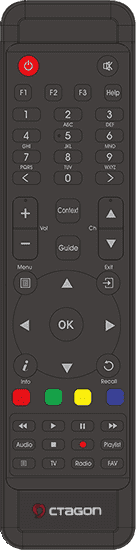
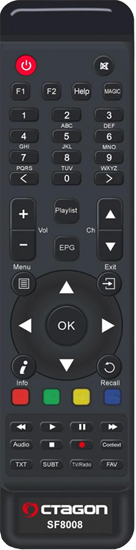
updated octagon remote

diff --git a/plugin/public/static/remotes/octagon.html b/plugin/public/static/remotes/octagon.html
@@ -1,52 +1,60 @@
 <img border='0' src='/images/remotes/octagon.png' usemap='#map' >
 <map name="map">
-    <area shape="circle" coords="28,66,12" title="Power" onclick="pressMenuRemote('116');">
-    <area shape="circle" coords="107,66,12" title="mute" onclick="pressMenuRemote('113');">
-    <area shape="circle" coords="23,93,10" title="f1" onclick="pressMenuRemote('59');">
-    <area shape="circle" coords="54,93,10" title="f2" onclick="pressMenuRemote('60');">
-    <area shape="circle" coords="83,93,10" title="f3" onclick="pressMenuRemote('61');">
-    <area shape="circle" coords="113,93,10" title="help" onclick="pressMenuRemote('138');">
-    <area shape="rect" coords="12,108,42,122" title="1" onclick="pressMenuRemote('2');">
-    <area shape="rect" coords="54,108,84,122" title="2" onclick="pressMenuRemote('3');">
-    <area shape="rect" coords="95,108,125,122" title="3" onclick="pressMenuRemote('4');">
-    <area shape="rect" coords="12,129,42,143,122" title="4" onclick="pressMenuRemote('5');">
-    <area shape="rect" coords="54,129,84,143" title="5" onclick="pressMenuRemote('6');">
-    <area shape="rect" coords="95,129,125,143" title="6" onclick="pressMenuRemote('7');">
-    <area shape="rect" coords="12,150,42,164" title="7" onclick="pressMenuRemote('8');">
-    <area shape="rect" coords="54,150,84,164" title="8" onclick="pressMenuRemote('9');">
-    <area shape="rect" coords="95,150,125,164" title="9" onclick="pressMenuRemote('10');">
-    <area shape="rect" coords="12,171,42,185" title="previous" onclick="pressMenuRemote('412');">
-    <area shape="rect" coords="54,171,84,185" title="0" onclick="pressMenuRemote('11');">
-    <area shape="rect" coords="95,171,125,185" title="next" onclick="pressMenuRemote('407');">
-    <area shape="circle" coords="26,213,14" title="volume up" onclick="pressMenuRemote('115');">
-    <area shape="circle" coords="26,244,14" title="volume down" onclick="pressMenuRemote('114');">
-    <area shape="circle" coords="68,211,14" title="context menu" onclick="pressMenuRemote('438');">
-    <area shape="circle" coords="111,213,14" title="channel up" onclick="pressMenuRemote('402');">
-    <area shape="circle" coords="111,244,14" title="channel down" onclick="pressMenuRemote('403');">
-    <area shape="circle" coords="68,248,14" title="epg" onclick="pressMenuRemote('365');">
-    <area shape="circle" coords="25,283,12" title="menu" onclick="pressMenuRemote('139');">
-    <area shape="circle" coords="67,283,15" title="up" onclick="pressMenuRemote('103');">
-    <area shape="circle" coords="108,283,12" title="exit" onclick="pressMenuRemote('174');">
-    <area shape="circle" coords="25,325,15" title="left" onclick="pressMenuRemote('105');">
-    <area shape="circle" coords="67,325,18" title="OK" onclick="pressMenuRemote('352');">
-    <area shape="circle" coords="108,325,15" title="right" onclick="pressMenuRemote('106');">
-    <area shape="circle" coords="25,366,12" title="info" onclick="pressMenuRemote('358');">
-    <area shape="circle" coords="67,366,15" title="down" onclick="pressMenuRemote('108');">
-    <area shape="circle" coords="108,366,12" title="recall" onclick="pressMenuRemote('158');">
-    <area shape="rect" coords="13,389,30,405" title="red" onclick="pressMenuRemote('398');">
-    <area shape="rect" coords="45,389,62,405" title="green" onclick="pressMenuRemote('399');">
-    <area shape="rect" coords="74,389,92,405" title="yellow" onclick="pressMenuRemote('400');">
-    <area shape="rect" coords="107,389,124,405" title="blue" onclick="pressMenuRemote('401');">
-    <area shape="rect" coords="12,420,37,434" title="rewind" onclick="pressMenuRemote('168');">
-    <area shape="rect" coords="42,420,67,433" title="play" onclick="pressMenuRemote('207');">
-    <area shape="rect" coords="72,420,97,433" title="pause" onclick="pressMenuRemote('119');">
-    <area shape="rect" coords="100,420,125,433" title="forward" onclick="pressMenuRemote('208');">
-    <area shape="rect" coords="12,439,37,452" title="audio" onclick="pressMenuRemote('392');">
-    <area shape="rect" coords="42,439,67,452" title="stop" onclick="pressMenuRemote('128');">
-    <area shape="rect" coords="72,439,97,452" title="record" onclick="pressMenuRemote('167');">
-    <area shape="rect" coords="100,439,125,452" title="playlist" onclick="pressMenuRemote('156');">
-    <area shape="rect" coords="12,457,37,470" title="text" onclick="pressMenuRemote('388');">
-    <area shape="rect" coords="42,457,67,470" title="tv" onclick="pressMenuRemote('377');">
-    <area shape="rect" coords="72,457,97,470" title="radio" onclick="pressMenuRemote('385');">
-   <area shape="rect" coords="100,457,125,470" id="388" title="fav" onclick="pressMenuRemote('393');">
+    <area shape="circle" coords="25,65,12" alt="Power" onclick="pressMenuRemote('116');">
+    <area shape="circle" coords="105,66,10" alt="mute" onclick="pressMenuRemote('113');">
+
+    <area shape="circle" coords="20,92,12" alt="F1" onclick="pressMenuRemote('59');">
+    <area shape="circle" coords="52,92,12" alt="F2" onclick="pressMenuRemote('60');">
+    <area shape="circle" coords="80,92,12" alt="help" onclick="pressMenuRemote('138');">
+    <area shape="circle" coords="120,92,12" alt="magic" onclick="pressMenuRemote('0');">
+
+    <area shape="circle" coords="23,101,12" alt="1" onclick="pressMenuRemote('2');">
+    <area shape="circle" coords="62,101,12" alt="2" onclick="pressMenuRemote('3');">
+    <area shape="circle" coords="100,101,12" alt="3" onclick="pressMenuRemote('4');">
+    <area shape="circle" coords="23,120,12" alt="4" onclick="pressMenuRemote('5');">
+    <area shape="circle" coords="62,120,12" alt="5" onclick="pressMenuRemote('6');">
+    <area shape="circle" coords="100,120,12" alt="6" onclick="pressMenuRemote('7');">
+    <area shape="circle" coords="23,140,12" alt="7" onclick="pressMenuRemote('8');">
+    <area shape="circle" coords="62,140,12" alt="8" onclick="pressMenuRemote('9');">
+    <area shape="circle" coords="100,140,12" alt="9" onclick="pressMenuRemote('10');">
+    <area shape="circle" coords="23,158,12" alt="previous" onclick="pressMenuRemote('412');">
+    <area shape="circle" coords="62,158,12" alt="0" onclick="pressMenuRemote('11');">
+    <area shape="circle" coords="100,158,12" alt="next" onclick="pressMenuRemote('407');">
+
+    <area shape="circle" coords="23,191,12" alt="volume up" onclick="pressMenuRemote('115');">
+    <area shape="circle" coords="23,219,12" alt="volume down" onclick="pressMenuRemote('114');">
+    <area shape="circle" coords="61,188,12" alt="filelist" onclick="pressMenuRemote('144');">
+    <area shape="circle" coords="61,223,10" alt="epg" onclick="pressMenuRemote('365');">
+    <area shape="circle" coords="101,192,12" alt="channel up" onclick="pressMenuRemote('402');">
+    <area shape="circle" coords="101,220,12" alt="channel down" onclick="pressMenuRemote('403');">
+
+    <area shape="circle" coords="22,254,10" alt="menu" onclick="pressMenuRemote('139');">
+    <area shape="circle" coords="61,259,12" alt="up" onclick="pressMenuRemote('103');">
+    <area shape="circle" coords="99,254,10" alt="exit" onclick="pressMenuRemote('174');">
+    <area shape="circle" coords="25,293,12" alt="left" onclick="pressMenuRemote('105');">
+    <area shape="circle" coords="61,293,15" alt="OK" onclick="pressMenuRemote('352');">
+    <area shape="circle" coords="97,293,12" alt="right" onclick="pressMenuRemote('106');">
+    <area shape="circle" coords="22,332,10" alt="info" onclick="pressMenuRemote('358');">
+    <area shape="circle" coords="61,327,12" alt="down" onclick="pressMenuRemote('108');">
+    <area shape="circle" coords="99,332,10" alt="back" onclick="pressMenuRemote('158');">
+
+    <area shape="circle" coords="20,357,10" alt="red" onclick="pressMenuRemote('398');">
+    <area shape="circle" coords="49,357,10" alt="green" onclick="pressMenuRemote('399');">
+    <area shape="circle" coords="75,357,10" alt="yellow" onclick="pressMenuRemote('400');">
+    <area shape="circle" coords="102,357,10" alt="blue" onclick="pressMenuRemote('401');">
+
+    <area shape="circle" coords="20,385,12" alt="rewind" onclick="pressMenuRemote('168');">
+    <area shape="circle" coords="49,385,12" alt="play" onclick="pressMenuRemote('207');">
+    <area shape="circle" coords="76,385,12" alt="pause" onclick="pressMenuRemote('119');">
+    <area shape="circle" coords="101,385,12" alt="forward" onclick="pressMenuRemote('208');">
+
+    <area shape="circle" coords="20,401,12" alt="audio" onclick="pressMenuRemote('392');">
+    <area shape="circle" coords="49,401,12" alt="stop" onclick="pressMenuRemote('128');">
+    <area shape="circle" coords="75,401,12" alt="record" onclick="pressMenuRemote('167');">
+
+    <area shape="circle" coords="20,419,12" alt="text" onclick="pressMenuRemote('388');">
+    <area shape="circle" coords="49,419,12" alt="subtitle" onclick="pressMenuRemote('370');">
+    <area shape="circle" coords="75,419,12" alt="tv" onclick="pressMenuRemote('377');">
+    <area shape="circle" coords="101,419,12" alt="fav" onclick="pressMenuRemote('364');">
+    <area shape="circle" coords="101,401,12" alt="portal" onclick="pressMenuRemote('156');">
 </map>
